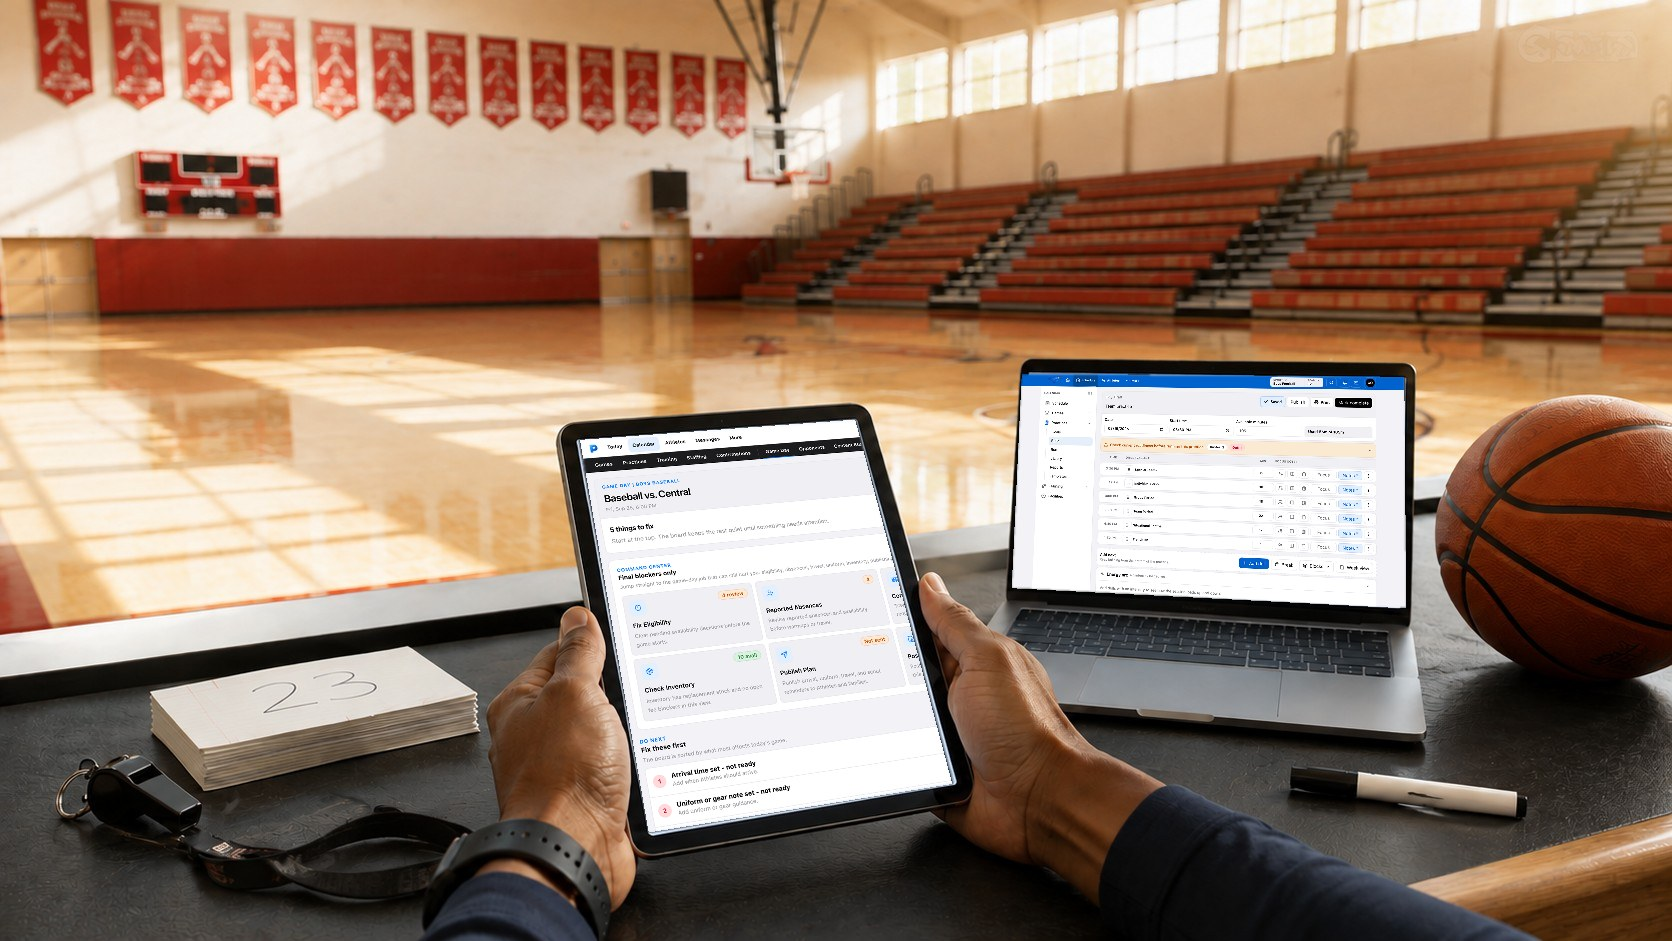
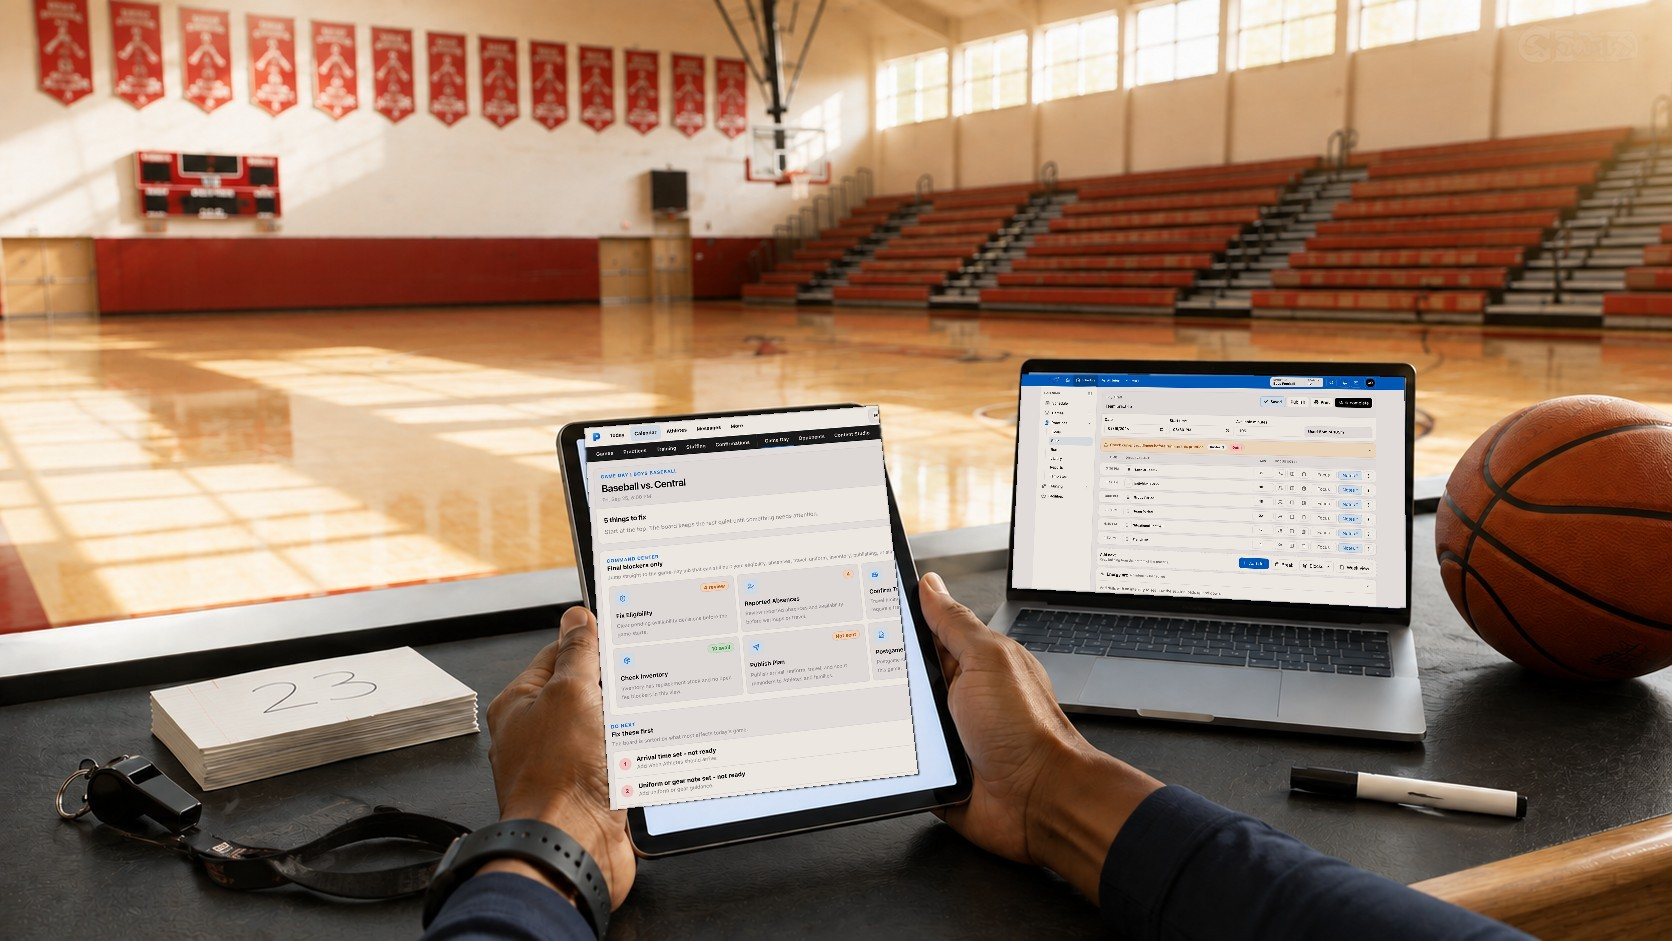
Heroes: hand-align device screens + warm-grade
Replace the loose auto-detected screen quads in compose-hero-screens.py
with hand-measured corners for every device (iMac, iPhone, iPad, family
phone), so the real screenshots sit exactly in the glass with correct
perspective instead of reading as pasted-on. Add a subtle dim/warm grade
so the bright UI matches each scene's lighting. Rebuild all four heroes.

Changed region(s): [[0.3421, 0.4315, 0.5909, 0.8937], [0.5909, 0.4006, 0.8397, 0.6472]]

diff --git a/scripts/compose-hero-screens.py b/scripts/compose-hero-screens.py
@@ -14,7 +14,7 @@ bluish-white; sunlit paper/whiteboards are warm and get filtered out). The fund
 image's phone is hand-measured because the sky defeats auto-detection there.
 Pure Pillow — no numpy/ImageMagick needed.
 """
-from PIL import Image, ImageDraw, ImageFilter
+from PIL import Image, ImageDraw, ImageFilter, ImageEnhance
 import os, sys
 
 ROOT = os.path.dirname(os.path.dirname(os.path.abspath(__file__)))
@@ -123,39 +123,51 @@ def letterbox(img, aspect, bg=(13, 15, 18)):
     return canvas
 
 
-def paste_screen(im, quad, src_path, mode="fill", anchor="center"):
+def grade(src, dim=0.93, warm=0.955):
+    """Dim the pure-white UI and warm it so it reads as glass in a warm-lit
+    scene instead of a bright rectangle pasted on top."""
+    src = ImageEnhance.Brightness(src).enhance(dim)
+    r, g, b = src.split()
+    g = g.point(lambda v: int(v * (warm + (1 - warm) * 0.5)))
+    b = b.point(lambda v: int(v * warm))
+    return Image.merge("RGB", (r, g, b))
+
+
+def paste_screen(im, quad, src_path, mode="fill", anchor="center", dim=0.93, warm=0.955):
     quad = expand_quad(quad)
     asp = quad_aspect(quad)
     src = Image.open(src_path).convert("RGB")
     src = letterbox(src, asp) if mode == "letterbox" else aspect_fill(src, asp, anchor)
+    src = grade(src, dim, warm)
     layer = src.transform(im.size, Image.PERSPECTIVE, persp_coeffs(quad, src.size), Image.BICUBIC)
     mask = Image.new("L", im.size, 0)
     ImageDraw.Draw(mask).polygon([tuple(p) for p in quad], fill=255)
-    im.paste(layer, (0, 0), mask.filter(ImageFilter.GaussianBlur(1.2)))
+    im.paste(layer, (0, 0), mask.filter(ImageFilter.GaussianBlur(1.0)))
 
 
 def build(name):
+    # Every screen quad is hand-measured against the -blank photo (grid overlay)
+    # so real screenshots sit exactly in the glass with correct perspective —
+    # auto-detection was loose and made the screens read as "pasted on".
     im = Image.open(f"{RD}/hero-{name}-blank.jpg").convert("RGB")
-    blobs = detect_screens(im)
     if name == "run":
-        paste_screen(im, blobs[0]["quad"], f"{CA}/coach-home.png")           # iMac
-        paste_screen(im, blobs[1]["quad"], f"{CA}/mobile-home.png")          # iPhone on stand
+        imac  = [(662, 120), (1344, 105), (1340, 476), (660, 470)]
+        phone = [(1053, 549), (1147, 542), (1152, 674), (1058, 681)]
+        paste_screen(im, imac,  f"{CA}/coach-home.png")                      # iMac
+        paste_screen(im, phone, f"{CA}/mobile-home.png")                     # iPhone on stand
     elif name == "game":
-        # laptop screen is rotated in perspective — auto corner detection
-        # (axis-diagonal extremes) mis-reads it, so it's hand-measured
         laptop = [(1024, 375), (1402, 378), (1404, 607), (1014, 587)]
-        tallest = min(blobs, key=lambda b: quad_aspect(b["quad"]))
-        paste_screen(im, laptop, f"{SC}/practice-planner.png")               # laptop
-        paste_screen(im, tallest["quad"], f"{SC}/game-day.png", anchor="leftish")  # iPad
+        ipad   = [(586, 430), (876, 408), (916, 772), (612, 808)]
+        paste_screen(im, laptop, f"{SC}/practice-planner.png")              # laptop
+        paste_screen(im, ipad,   f"{SC}/game-day.png", anchor="leftish")    # iPad (portrait)
     elif name == "fund":
-        # hand-measured: sky defeats blob detection in this image
+        # sky defeats blob detection here; keep the Content Studio graphic
         quad = [(690, 337), (1005, 331), (1003, 474), (692, 477)]
-        # swap this file for any current Content Studio graphic
-        paste_screen(im, [(p[0], p[1]) for p in quad],
-                     f"{RD}/hero-fund-graphic.png", mode="letterbox")
+        paste_screen(im, quad, f"{RD}/hero-fund-graphic.png", mode="letterbox")
     elif name == "family":
-        paste_screen(im, blobs[0]["quad"], f"{CA}/mobile-home.png")
-    im.save(f"{RD}/hero-{name}.jpg", quality=88)
+        phone = [(462, 460), (631, 453), (646, 665), (472, 688)]
+        paste_screen(im, phone, f"{CA}/mobile-home.png")
+    im.save(f"{RD}/hero-{name}.jpg", quality=90)
     print(f"built {RD}/hero-{name}.jpg")
 
 
